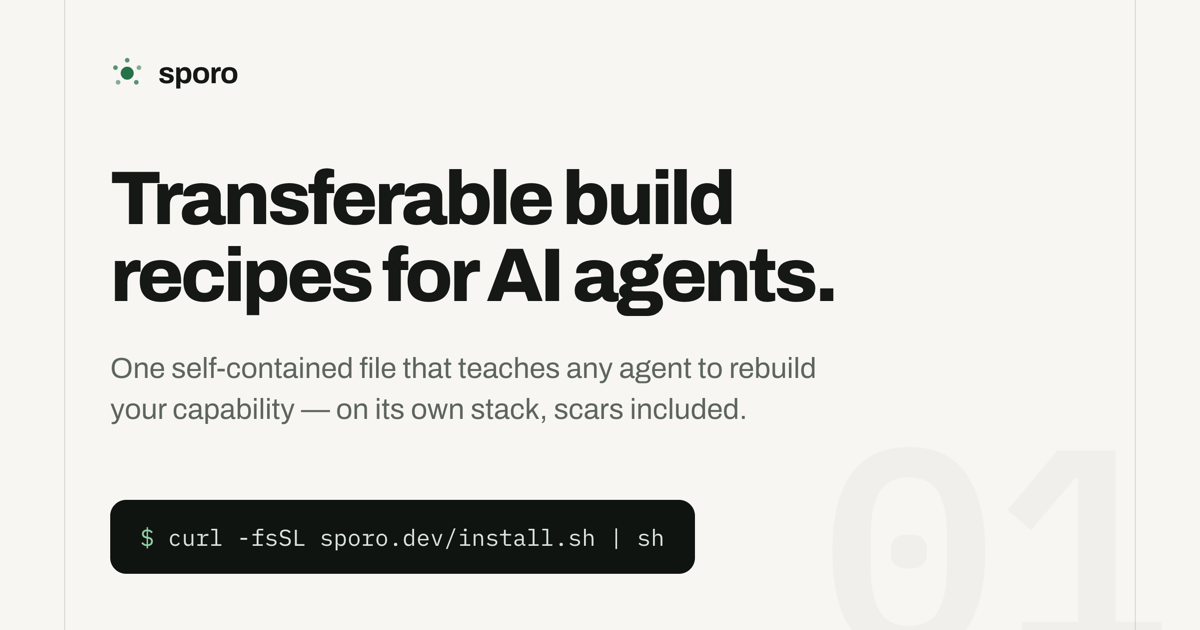
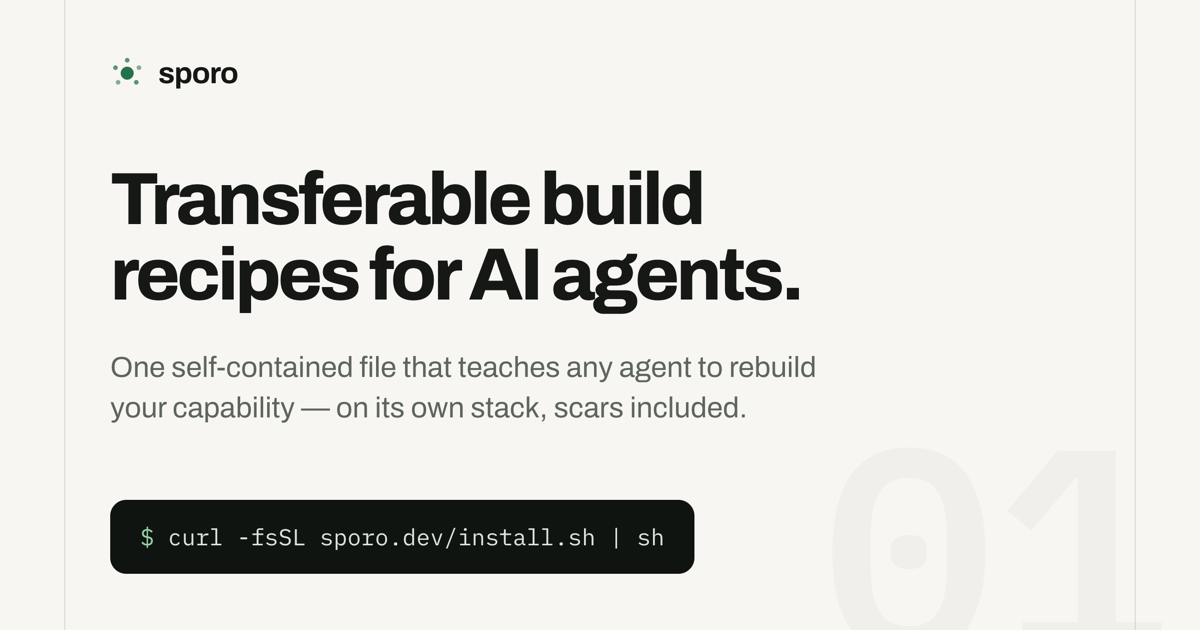
feat(web): per-page OG cards in the 1b style
Each page now ships its own 1200x630 social card — same 1b (light, product)
layout as the home card, with a per-page heading, supporting line, and ghost
numeral. BaseHead gains an ogImage prop (defaults to og.png); docs, example,
what-is-a-recipe and manifesto pass their card. Rendered from the committed
web/scripts/og-template.html against the self-hosted fonts (no Google Fonts,
no third-party request), captured at 2x and downscaled to 1200x630.

Claude-Session: https://claude.ai/code/session_01CZAYCijbE51mcESw3h7US4

diff --git a/web/scripts/og-template.html b/web/scripts/og-template.html
@@ -1,0 +1,60 @@
+<!DOCTYPE html>
+<!--
+  OG card generator — the source of the public/og-*.png social cards. It is the 1b design
+  variant (light · product) from the Claude Design OG project, self-hosted fonts, one file
+  that renders every page's card off a ?p=<page> query string.
+
+  Regenerate (no build dependency — a one-off headless-Chrome capture, then commit the PNGs):
+    1. Open this file in Chrome at a 1200×630 viewport, e.g.
+       file://…/web/scripts/og-template.html?p=docs
+    2. await document.fonts.ready, then capture the viewport (DPR 2 → 2400×1260 PNG).
+    3. Downscale to 1200×630 (sips -z 630 1200 in.png --out ../public/og-<page>.png) — the
+       2× capture supersamples, so the 1× card stays crisp.
+  Pages: home→og.png, docs→og-docs.png, example→og-example.png, genre→og-genre.png,
+  manifesto→og-manifesto.png. og:image:width/height in BaseHead is 1200/630 to match.
+-->
+<html>
+<head>
+<meta charset="utf-8">
+<style>
+@font-face{font-family:'Archivo';font-style:normal;font-weight:400 800;src:url(../public/fonts/archivo-var.woff2) format('woff2')}
+@font-face{font-family:'Archivo';font-style:italic;font-weight:400 800;src:url(../public/fonts/archivo-var-italic.woff2) format('woff2')}
+@font-face{font-family:'IBM Plex Mono';font-style:normal;font-weight:400;src:url(../public/fonts/plexmono-400.woff2) format('woff2')}
+@font-face{font-family:'IBM Plex Mono';font-style:normal;font-weight:600;src:url(../public/fonts/plexmono-600.woff2) format('woff2')}
+*{box-sizing:border-box;margin:0}
+html,body{margin:0;padding:0;background:#f7f6f2}
+</style>
+</head>
+<body>
+<div id="card" style="width:1200px;height:630px;position:relative;overflow:hidden;background:#f7f6f2;color:#151815;font-family:'Archivo',sans-serif;-webkit-font-smoothing:antialiased">
+  <div style="position:absolute;left:64px;right:64px;top:0;bottom:0;border-left:1px solid #15181522;border-right:1px solid #15181522"></div>
+  <div id="numeral" aria-hidden="true" style="position:absolute;bottom:-60px;right:30px;font-family:'IBM Plex Mono',monospace;font-weight:600;font-size:290px;line-height:1;color:#15181508;user-select:none"></div>
+  <div style="position:absolute;inset:0;padding:56px 110px;display:flex;flex-direction:column">
+    <div style="display:flex;align-items:center;gap:14px;font-weight:700;font-size:30px;letter-spacing:-.02em">
+      <svg width="34" height="34" viewBox="0 0 22 22" fill="none"><circle cx="11" cy="11" r="4.2" fill="#25714a"></circle><circle cx="11" cy="2.6" r="1.5" fill="#25714a" opacity=".75"></circle><circle cx="18.6" cy="7.4" r="1.5" fill="#25714a" opacity=".55"></circle><circle cx="16.9" cy="16.9" r="1.5" fill="#25714a" opacity=".75"></circle><circle cx="5.1" cy="16.9" r="1.5" fill="#25714a" opacity=".55"></circle><circle cx="3.4" cy="7.4" r="1.5" fill="#25714a" opacity=".75"></circle></svg>
+      sporo
+    </div>
+    <div style="flex:1;display:flex;flex-direction:column;justify-content:center;gap:34px">
+      <div id="heading" style="font-size:74px;line-height:1.02;letter-spacing:-.045em;font-weight:760;max-width:18ch"></div>
+      <div id="subtitle" style="font-size:29px;line-height:1.4;color:#5d655d;max-width:44ch;text-wrap:pretty"></div>
+    </div>
+    <div style="display:inline-flex;align-self:flex-start;align-items:center;background:#101410;border-radius:16px;padding:22px 30px;font-family:'IBM Plex Mono',monospace;font-size:23px;color:#d9e4da"><span style="color:#8fd1a4;margin-right:14px">$</span>curl -fsSL sporo.dev/install.sh | sh</div>
+  </div>
+</div>
+<script>
+const PAGES = {
+  home:     { n: '01', h: 'Transferable build recipes for AI agents.', s: 'One self-contained file that teaches any agent to rebuild your capability — on its own stack, scars included.' },
+  docs:     { n: '02', h: 'Every verb the binary carries.', s: 'The command reference, generated from the CLI itself — grouped, flagged, and never drifting from the binary.' },
+  example:  { n: '03', h: 'A real recipe, rendered.', s: 'The daily-progress-report recipe in full — the eleven gated sections, the scars, the shape a reader adopts.' },
+  genre:    { n: '04', h: 'The recipe genre.', s: 'Eleven gated sections, a neutrality rule, and scars recorded as symptom → root cause → fix.' },
+  manifesto:{ n: '05', h: 'Capability moves by teaching.', s: 'Why transferable intent is a third primitive — not a prompt, not a skill package.' },
+};
+const key = new URLSearchParams(location.search).get('p') || 'home';
+const p = PAGES[key];
+document.getElementById('numeral').textContent = p.n;
+document.getElementById('heading').textContent = p.h;
+document.getElementById('subtitle').textContent = p.s;
+document.title = 'og-' + key;
+</script>
+</body>
+</html>